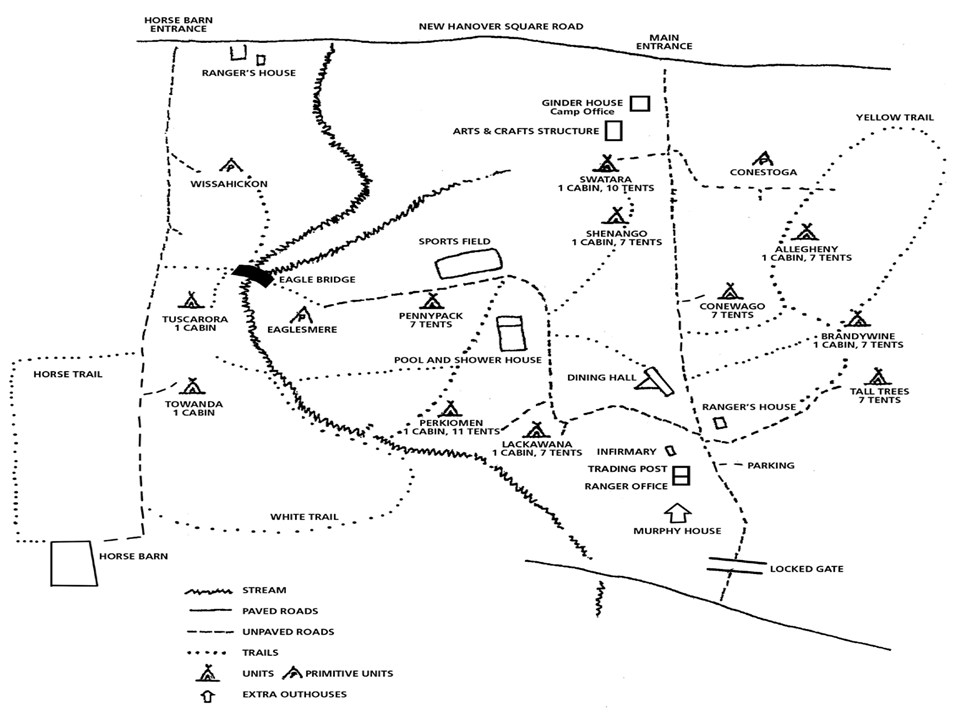
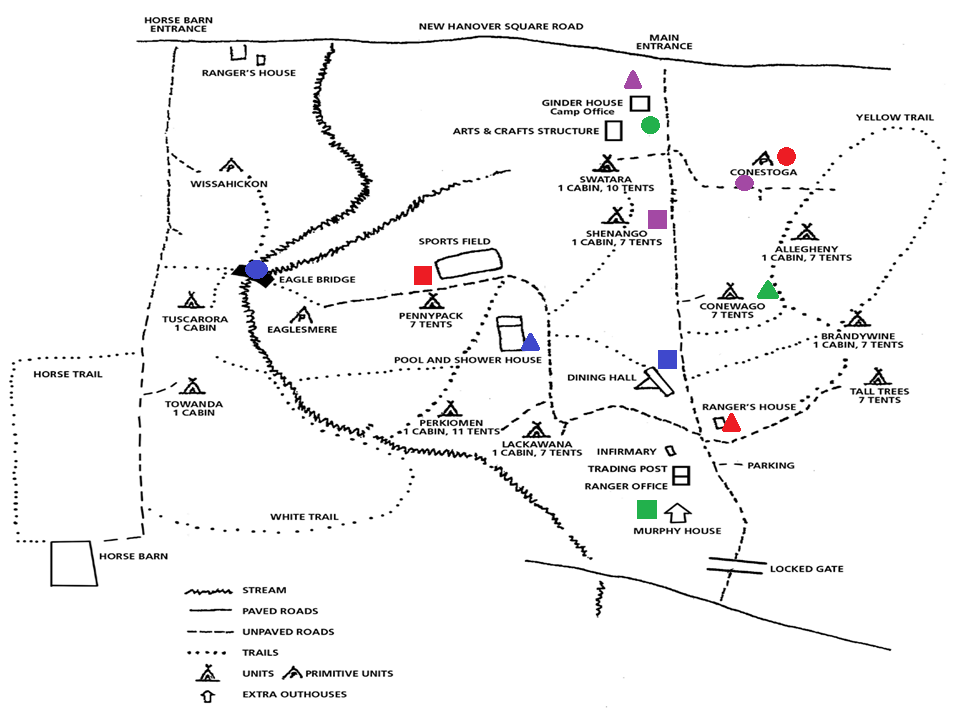
Added image map to map.php; Renamed cluecode.php -> clue.php
- More updates to css
- Reduced the size of the map image by half

diff --git a/DottisDare/css/dottisdare.css b/DottisDare/css/dottisdare.css
@@ -85,6 +85,20 @@ div.centered {
 	text-align: center;
 }
 
+div.dottisdare {
+	background-color: #0C9B74;	
+
+	margin-left: auto;
+	margin-right: auto;
+	margin-top: 50px;
+	margin-bottom: 50px;
+	
+	border: 3px solid;
+	border-color: #5FF39B;
+	border-radius: 25px;
+	padding: 20px;
+}
+
 footer {
 	font-size: 0.65em;
 	text-align: center;
@@ -105,23 +119,11 @@ form.signinform {
 }
 
 
-/******************/
+/****************/
 /** Rules page **/
-/******************/
+/****************/
 
-div.rules {
-	background-color: #0C9B74;	
-
-	margin-left: auto;
-	margin-right: auto;
-	margin-top: 50px;
-	margin-bottom: 50px;
-	
-	border: 3px solid;
-	border-color: #5FF39B;
-	border-radius: 25px;
-	padding: 20px;
-	
+div.rules {	
 	min-width: 500px;
 	max-width: 700px;
 }
@@ -137,9 +139,9 @@ button.rules {
 }
 
 
-/******************/
+/********************/
 /** Clue code page **/
-/******************/
+/********************/
 
 form.cluecode {
 	width: 450px;
@@ -147,4 +149,14 @@ form.cluecode {
 
 .cluecode > button {
 	margin-left: 59px;
+}
+
+
+/**************/
+/** Map page **/
+/**************/
+
+div.map {
+	width: 1012px;
+	margin: 10px;
 }

diff --git a/DottisDare/map.php b/DottisDare/map.php
@@ -26,20 +26,28 @@
     <![endif]-->
   </head>
   <body>
-    <h1 class="title">
-    	Welcome to the Dotti's Dare<br>
-    	2014 Scavenger Hunt!
-    </h1>
-    
+
     <div class="container">
-      <form class="form-signin cluecode" role="form">
-        <h4 class="form-signin-heading">
-        	Enter the 3-digit code found on the back of your clue:
+      <div class="dottisdare map centered">
+        <h4>
+        	TEST TEST TEST TEST TEST
         </h4>
         
-        <input type="text" class="form-control dottisdare" placeholder="" required autofocus>
-        <button class="btn btn-lg btn-primary dottisdare" type="submit">Submit Clue Code</button>
-      </form>
+        <img src="images/map.jpg" height="722" width="962" alt="Camp Map" usemap="#map" />
+		<map name="map">
+		    <area shape="poly" coords="659, 402, 712, 360, 670, 318, 617, 314, 610, 370" alt="Blue Square" onclick="alert('Blue Square');" />
+		    <area shape="poly" coords="687, 420, 736, 381, 806, 388, 799, 451, 718, 458" alt="Red Triangle" onclick="alert('Red Triangle');" />
+		    <area shape="rect" coords="592, 472, 694, 545" alt="Green Square" onclick="alert('Green Square');" />
+		    <area shape="rect" coords="725, 266, 823, 342" alt="Green Triangle" onclick="alert('Green Triangle');" />
+		    <area shape="poly" coords="575, 105, 698, 101, 697, 139, 638, 167, 582, 140" alt="Green Circle" onclick="alert('Green Circle');" />
+		    <area shape="poly" coords="655, 91, 572, 94, 547, 45, 652, 35, 697, 55, 698, 90" alt="Purple Triangle" onclick="alert('Purple Triangle');" />
+		    <area shape="rect" coords="610, 192, 684, 269" alt="Purple Square" onclick="alert('Purple Square');" />
+		    <area shape="poly" coords="753, 136, 795, 203, 862, 195, 830, 136, 768, 115" alt="Red Circle" onclick="alert('Red Circle');" />
+		    <area shape="poly" coords="781, 209, 764, 171, 732, 140, 701, 171, 729, 220" alt="Purple Circle" onclick="alert('Purple Circle');" />
+		    <area shape="rect" coords="484, 308, 571, 391" alt="Blue Triangle" onclick="alert('Blue Triangle');" />
+		    <area shape="rect" coords="383, 224, 474, 332" alt="Red Square" onclick="alert('Red Square');" />
+		    <area shape="rect" coords="194, 220, 319, 325" alt="Blue Circle" onclick="alert('Blue Circle');" />
+		</map>
     </div> <!-- /container -->
     
     <footer>
